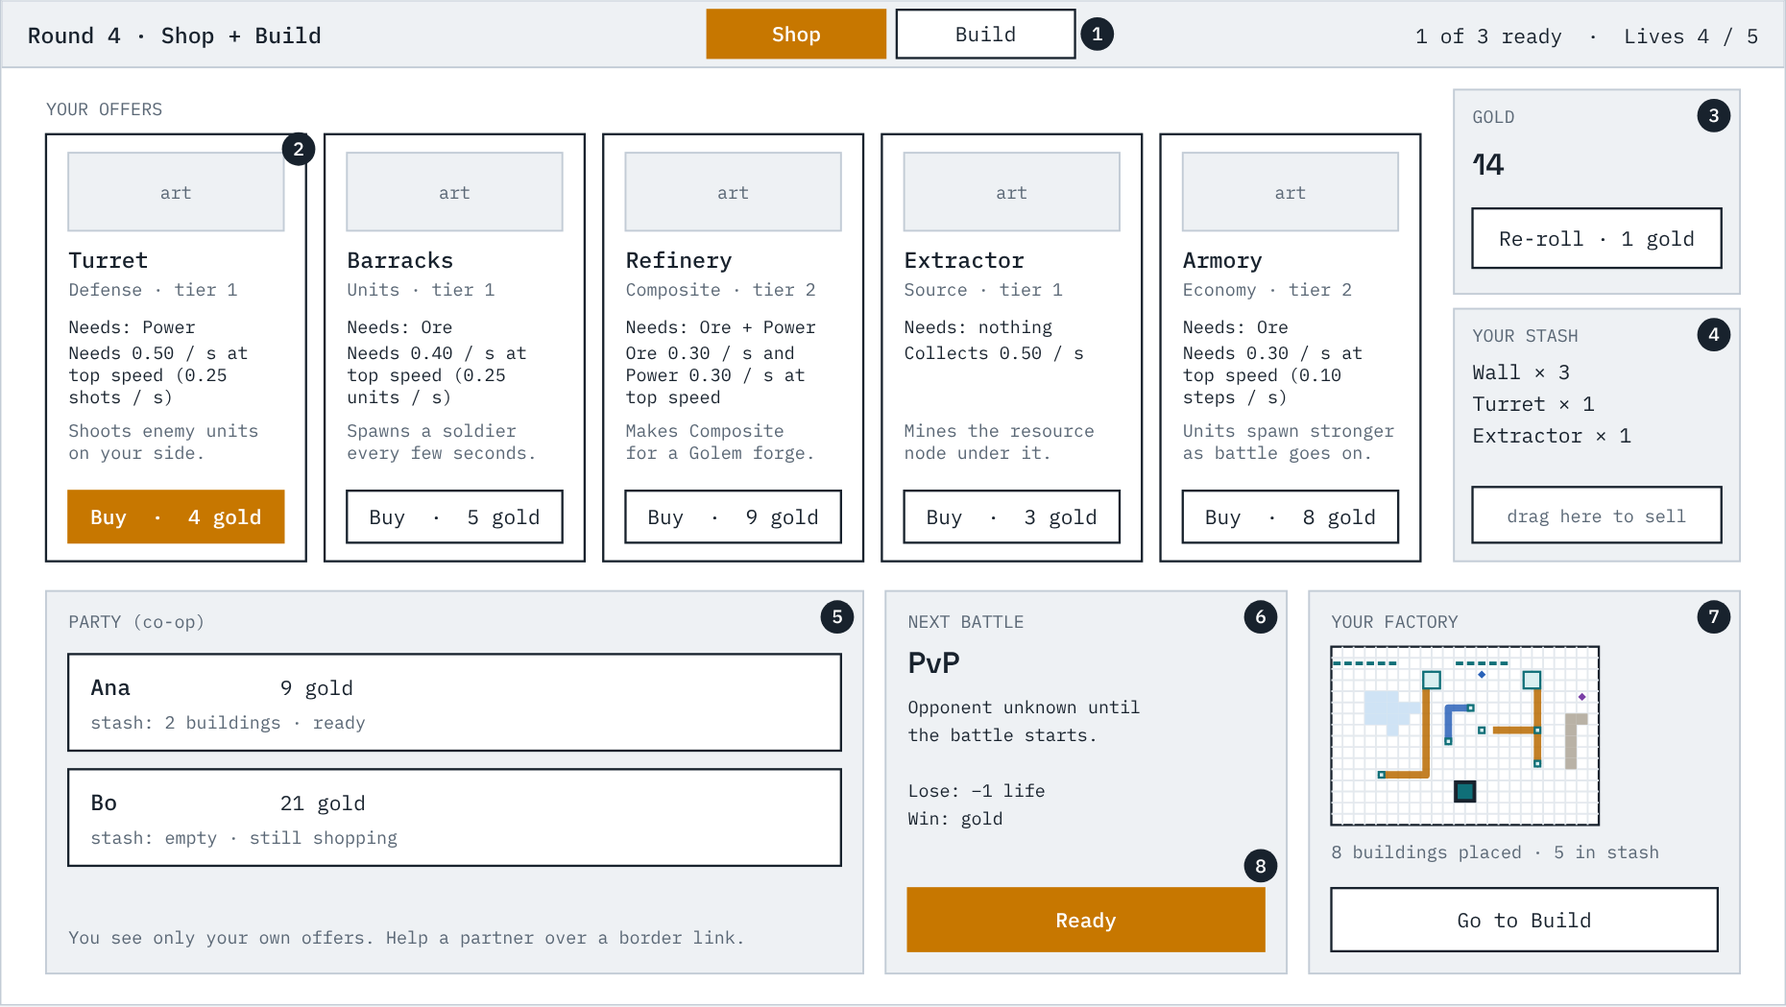
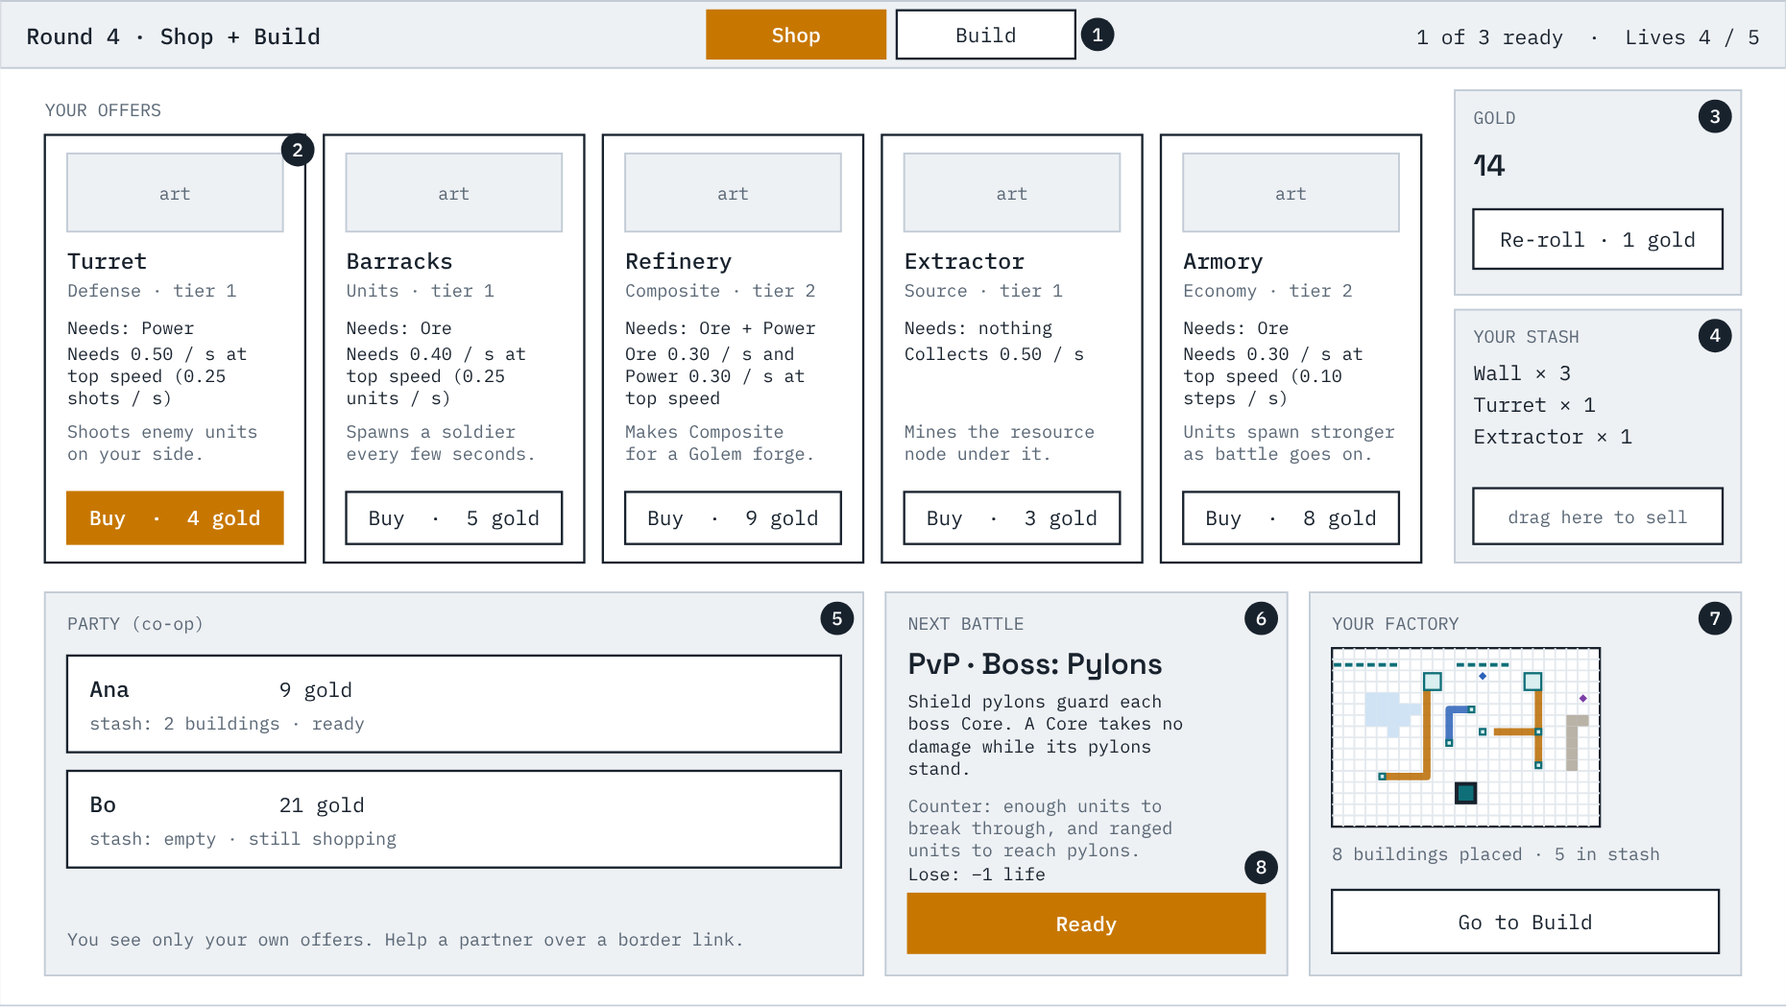
Record the boss design in the specs and wireframes (#395)
Docs only. MM-9 now picks from the bosses unlocked at the round, with
MM-9a to MM-9e (design rule, roster and unlocks, no back-to-back, the four
new bosses, budget). MM-10, MM-11, SC-5, CB-29, the glossary and the
wireframes (shop Next battle panel, new boss marks sketch 1b) follow.

Claude-Session: https://claude.ai/code/session_01Kd8cM8EQNkLKbUoW1zngf8

diff --git a/docs/wireframes/screens.html b/docs/wireframes/screens.html
@@ -112,7 +112,7 @@ svg text { font-family: var(--font-mono); fill: var(--ink); white-space: pre; }
     <p>Nobody gives orders here. The party watches its factory start cold, ramp up, and send units across the neutral zone while the enemy does the same. Each player has their own Core, so each side shows one health bar per Core under a total. The sketch is a three-player party; a solo battle shows one bar per side.</p>
     <div class="sheet"><svg id="s-battle" class="big" viewBox="0 0 1280 720" role="img" aria-label="Battle screen wireframe: the stronghold board at the top, a neutral zone in the middle, the party's board at the bottom with three Cores, one of them fallen, and status panels on both sides with a health bar for each Core."></svg></div>
     <ol class="notes">
-      <li>Who you are fighting and what kind of battle it is. A ghost shows the other party's names; a boss says so.</li>
+      <li>Who you are fighting and what kind of battle it is. A ghost shows the other party's names; a boss says so and names the boss. Boss-only marks are in sketch 1b.</li>
       <li>Your board, at the bottom, exactly as you built it. Conduits light up as resources flow.</li>
       <li>The neutral zone. Its lakes and cliffs are generated for this battle and revealed when it starts. Buildings do nothing here; only units fight.</li>
       <li>The enemy board, at the top, with one Core per player. Your units attack buildings in their way and finally the Cores: first the one opposite their owner’s plot, then the nearest still standing.</li>
@@ -126,6 +126,18 @@ svg text { font-family: var(--font-mono); fill: var(--ink); white-space: pre; }
       <li>Camera presets (Center, My base, Their base, Fit battle). It starts at the center of the map, and the view pans and zooms, so a larger map or a four-player battle still works on the same screen.</li>
       <li>A Golem leads the push. It is drawn bigger than other units: huge health and flat armor, but slow and weak in attack.</li>
       <li>A caster’s blast hits a group: units near the target take part of the hit. Units only, no buildings, no friendly fire.</li>
+    </ol>
+  </section>
+
+  <section>
+    <h2>1b. Battle: boss marks</h2>
+    <p>A boss battle looks like screen 1, with one extra mark for the boss in play. Each boss changes only its own side, never the party's factory. Four marks are sketched together here; a real battle shows only the one for its boss. All names are placeholders.</p>
+    <div class="sheet"><svg id="s-boss" viewBox="0 0 960 540" role="img" aria-label="Boss marks on the battle screen: Core health bars with threshold ticks, one shared health bar for linked Cores, a Core ringed by shield pylons, and a champion leading a wave."></svg></div>
+    <ol class="notes">
+      <li>Brood stronghold: each boss Core bar has ticks at 75%, 50% and 25%. When a Core falls below one, it releases a burst of units, and the log says so.</li>
+      <li>Linked Cores: one shared bar for all the boss Cores, with the Cores listed under it. Damage to any Core comes off the bar, and they all fall together.</li>
+      <li>Pylons: the shield pylons drawn around a boss Core, a shield ring on the Core while any stands, and a count (“Pylons 2/4”). Your units go for the pylons first.</li>
+      <li>Warlord: the champion leading each wave, drawn bigger than a Golem and marked as the champion, with its own health bar.</li>
     </ol>
   </section>
 
@@ -151,7 +163,7 @@ svg text { font-family: var(--font-mono); fill: var(--ink); white-space: pre; }
       <li>Gold buys buildings and re-rolls, nothing else.</li>
       <li>Your stash: buildings you own that are not on the board. Drag here to sell.</li>
       <li>Teammates' gold and stash, for information only. You do not see their offers. Hidden in solo.</li>
-      <li>What comes next. PvE options are shown ahead of time; a PvP opponent never is.</li>
+      <li>What comes next. PvE options are shown ahead of time. A ghost opponent never is. When the opponent is a boss, this panel names the boss, gives one line on its mechanic and one line of counter advice, so you can build against it (the sketch shows a boss; names are placeholders).</li>
       <li>A small live view of the board that jumps to the Build tab.</li>
       <li>Ready is available on both tabs.</li>
     </ol>
@@ -421,6 +433,49 @@ svg text { font-family: var(--font-mono); fill: var(--ink); white-space: pre; }
     mark(s, rx + pw - 18, 442, 10, 11); mark(s, rx + pw - 18, 252, 11, 11); mark(s, rx + pw - 18, 564, 12, 11);
   })();
 
+  // ================= 1b. BOSS MARKS =================
+  (function () {
+    var s = document.getElementById("s-boss");
+    topbar(s, "Round 5 · PvP battle", "vs. Boss: working name", "Battle time 1:24  ·  Lives 4 / 5");
+    function quad(x, y, title, n) { R(s, x, y, 456, 236, "panel"); T(s, x + 12, y + 24, title, "th"); mark(s, x + 436, y + 20, n); }
+    // 1. Brood: threshold ticks
+    quad(24, 52, "BROOD STRONGHOLD · boss Core bars", 1);
+    [["Core 1", 300, 500], ["Core 2", 190, 500], ["Core 3", 460, 500]].forEach(function (r, i) {
+      var y = 76 + i * 34, x = 36;
+      T(s, x, y + 22, r[0], "ts"); R(s, x + 60, y + 10, 300, 14, "hp"); R(s, x + 60, y + 10, Math.round(300 * r[1] / r[2]), 14, "hp-e");
+      [0.75, 0.5, 0.25].forEach(function (f) { el(s, "line", { x1: x + 60 + 300 * f, y1: y + 6, x2: x + 60 + 300 * f, y2: y + 28, class: "rule", "stroke-width": 2, style: "stroke:var(--ink)" }); });
+      T(s, x + 372, y + 22, r[1] + " / " + r[2], "ts", "start");
+    });
+    T(s, 36, 188, "ticks: 75% · 50% · 25%", "ts tm");
+    [[300, 214], [310, 220], [320, 212], [330, 219], [340, 213]].forEach(function (u) { el(s, "circle", { cx: u[0] + 20, cy: u[1], r: 3.5, class: "u-e" }); });
+    T(s, 36, 222, "Burst released below a tick:", "ts"); T(s, 36, 236, "Core 2 fell below 50% at 1:10", "ts tm");
+    // 2. Linked: one bar
+    quad(480, 52, "LINKED CORES · one shared bar", 2);
+    T(s, 492, 100, "Cores 3/3 · shared pool", "ts"); R(s, 492, 108, 330, 16, "hp"); R(s, 492, 108, 240, 16, "hp-e"); T(s, 832, 121, "1210 / 1500", "ts");
+    ["Core 1", "Core 2", "Core 3"].forEach(function (c, i) { R(s, 492 + i * 110, 142, 100, 28, "box"); T(s, 542 + i * 110, 160, c, "ts", "middle"); el(s, "line", { x1: 542 + i * 110, y1: 142, x2: 542 + i * 110, y2: 124, class: "rule" }); });
+    T(s, 492, 196, "A hit on any Core comes off the pool.", "ts"); T(s, 492, 210, "All Cores fall together at 0. Not drawn in solo.", "ts tm");
+    // 3. Pylons
+    quad(24, 296, "PYLONS · shielded Core", 3);
+    var cx = 150, cy = 420;
+    el(s, "circle", { cx: cx, cy: cy, r: 58, class: "blast" });
+    R(s, cx - 16, cy - 16, 32, 32, "core e"); T(s, cx, cy + 3, "C1", "core-t", "middle");
+    [[-48, -36, 0], [48, -36, 0], [-48, 36, 1], [48, 36, 0]].forEach(function (q) {
+      var px = cx + q[0], py = cy + q[1];
+      el(s, "polygon", { points: [px, py - 9, px + 8, py, px, py + 9, px - 8, py].join(","), class: q[2] ? "fell-x e" : "bld e", style: q[2] ? "fill:none" : "" });
+      if (q[2]) { el(s, "line", { x1: px - 6, y1: py - 6, x2: px + 6, y2: py + 6, class: "fell-x e" }); el(s, "line", { x1: px + 6, y1: py - 6, x2: px - 6, y2: py + 6, class: "fell-x e" }); }
+    });
+    [[cx - 100, cy + 76], [cx - 90, cy + 56]].forEach(function (u) { el(s, "circle", { cx: u[0], cy: u[1], r: 4, class: "u-a" }); });
+    el(s, "line", { x1: cx - 86, y1: cy + 54, x2: cx - 52, y2: cy + 38, class: "shot" });
+    lines(s, 250, 392, ["Pylons 3/4", "", "Core takes no damage", "while any pylon stands.", "", "Your units attack the", "pylons first."], "ts", 14);
+    // 4. Warlord
+    quad(480, 296, "WARLORD · champion per wave", 4);
+    el(s, "circle", { cx: 560, cy: 410, r: 22, class: "golem", style: "fill:var(--enemy)" });
+    T(s, 560, 414, "★", "t", "middle"); T(s, 560, 446, "Champion", "ts", "middle");
+    R(s, 534, 456, 52, 8, "hp"); R(s, 534, 456, 44, 8, "hp-e");
+    [[620, 396], [630, 412], [622, 426], [650, 402], [655, 420], [680, 410]].forEach(function (u) { el(s, "circle", { cx: u[0], cy: u[1], r: 4, class: "u-e" }); });
+    lines(s, 720, 392, ["One champion per", "boss plot leads", "each wave.", "", "A Golem with many", "times Golem health,", "paid from the wave", "budget."], "ts", 14);
+  })();
+
   // ================= 2. EVENT =================
   (function () {
     var s = document.getElementById("s-event");
@@ -488,8 +543,11 @@ svg text { font-family: var(--font-mono); fill: var(--ink); white-space: pre; }
     T(s, 36, 508, "You see only your own offers. Help a partner over a border link.", "ts tm");
     // next battle
     R(s, 476, 318, 216, 206, "panel"); T(s, 488, 338, "NEXT BATTLE", "ts tm");
-    T(s, 488, 362, "PvP", "tb"); lines(s, 488, 384, ["Opponent unknown until", "the battle starts.", "", "Lose: −1 life", "Win: gold"], "ts", 15);
-    btn(s, 488, 478, 192, 34, "Ready", true);
+    T(s, 488, 362, "PvP · Boss: Pylons", "tb");
+    lines(s, 488, 380, ["Shield pylons guard each", "boss Core. A Core takes no", "damage while its pylons", "stand."], "ts", 12);
+    T(s, 488, 436, "Counter: enough units to", "ts tm"); T(s, 488, 448, "break through, and ranged", "ts tm"); T(s, 488, 460, "units to reach pylons.", "ts tm");
+    T(s, 488, 473, "Lose: −1 life", "ts");
+    btn(s, 488, 480, 192, 32, "Ready", true);
     // mini board
     R(s, 704, 318, 232, 206, "panel"); T(s, 716, 338, "YOUR FACTORY", "ts tm");
     var mg = el(s, "g", { transform: "translate(716,348) rotate(0)" });

diff --git a/docs/specs/04-encounters-matchmaking.md b/docs/specs/04-encounters-matchmaking.md
@@ -97,22 +97,72 @@ rows. See `docs/rules-reference.md`, "Bundled ghosts".
   `(game version, party size, round number, seed)`:
   1. Compute a **power budget** from the round number using the PvE scaling
      curve (`05-scaling-economy.md` SC-1).
-  2. Pick a **boss template** valid for that depth band: a threat profile
-     (CB-29): a wave schedule and a stronghold with a signature mechanic.
+  2. Pick a **boss template** from the bosses **unlocked** at that round
+     (MM-9b): a threat profile (CB-29): a wave schedule and a stronghold
+     with a signature mechanic. Unlocks are cumulative: a boss stays in the
+     draw once it is unlocked.
   3. Spend the budget on wave size and composition over time and on the
      stronghold's health and defenses, multiplied by party size (CP-7). The
      stronghold has one Core per player, and its total Core health is split
      evenly between them (CB-29).
   4. Emit a threat profile (CB-34). Bosses are scripted threats, not
      factories.
-- **MM-10 [PROPOSED]** A boss should be tuned to be roughly as dangerous as
+- **MM-9a [DECIDED]** **A boss mechanic changes only the boss's own side**:
+  its stronghold and its units. It never changes how the party's factory
+  works: no effect on party buildings, production, flow, ramp or turrets.
+  Reason: the party gives no orders during a battle (pillar 4), so a
+  mechanic that breaks their factory mid-fight cannot be answered. Rejected
+  for this reason: jammers that stop party buildings, siege units that
+  target the factory, and waves that switch lanes. Party units may change
+  what they walk to because of a building on the boss's side (MM-9d,
+  Pylons); that is not a change to the factory.
+- **MM-9b [DECIDED]** **Roster and unlocks.** Each boss has a first round
+  and a minimum party size. The boss is a uniform draw (from the seed)
+  among the bosses that are unlocked at the round and fit the party size.
+  Linked Cores needs 2 or more players, so it is skipped in solo and the
+  draw picks another unlocked boss. A boss with only a data signature (a
+  different wave mix and nothing new in the arena) was rejected as too close
+  to ordinary PvE.
+- **MM-9c [DECIDED]** **No back-to-back repeats.** The boss met in the run's
+  previous boss battle is left out of the draw when another boss is
+  eligible. If it is the only eligible one, it is drawn again.
+- **MM-9d [PROPOSED]** **The bosses.** Each has one new arena rule, boss side
+  only (MM-9a). Names are working names; theme issue #393 renames them. All
+  numbers here are [PROPOSED].
+
+  | Boss | ID | From round | Party size | Mechanic (boss side only) | Counter |
+  |------|----|-----------|------------|---------------------------|---------|
+  | Today's boss | `arch_boss` | 1 | any | Every third wave is all raiders (unchanged). The early, cold-start boss (MM-12). | Defence against swarms |
+  | Brood stronghold | `arch_boss_brood` | 3 | any | Each boss Core releases a burst of units when it falls below 75%, 50% and 25% of its starting health. A hit that crosses several thresholds releases each of them; destroying a Core releases any left. | Keep defence at home; do not go all-in on attack |
+  | Linked Cores | `arch_boss_linked` | 5 | 2–4 | The boss Cores share one health pool: damage to any of them comes off the pool, and they all fall together when it is empty. | Co-op: a strong lane carries a weak one; total pressure matters |
+  | Pylons | `arch_boss_pylons` | 7 | any | Each boss plot has a few shield pylons around its Core. That Core takes no damage while any of its pylons stands. Party units treat a shielded Core's pylons as their targets until they are down. | Enough units to break through; ranged units to reach pylons |
+  | Warlord | `arch_boss_warlord` | 9 | any | Every wave is led by one champion per boss plot: a Golem with many times a Golem's health, paid for out of the wave budget. | Focused damage and walls that delay it; Golem armor shrugs off splash |
+
+  - Boss waves may use refining's units (Golem, caster, heavy). Only the
+    Warlord depends on them.
+  - Pylons: the party's units change what they walk to only because of a
+    building on the boss's side. The party's factory works as always, so
+    this fits MM-9a. Pylons are boss-only buildings (CB-29), never in a shop.
+  - Out of scope: boss-only units the party can never get; boss rewards
+    different from a ghost's; an endgame guard that forces bosses (SC-7);
+    PvE threats that use these mechanics.
+- **MM-9e [DECIDED]** **Every mechanic is paid from the boss's existing
+  budget** (SC-1, boss multiplier). A mechanic does not raise the curve:
+  the pylons, the burst units or the champion come out of the same total
+  the boss would have had. Stakes are unchanged: losing to any boss costs 1
+  life (RS-5a).
+- **MM-10 [PROPOSED]** **Each boss** (every entry in MM-9d, not just "the
+  boss") should be tuned to be roughly as dangerous as
   the *median* ghost at that round while ghosts exist at that depth, and to
   follow the exponential curve beyond it. In practice the snapshot pool thins
   out at high rounds, so deep runs naturally transition from ghosts to
   ever-harder bosses — this is the mechanism that ends every run (V-5).
 - **MM-11 [PROPOSED]** Players are told whether a PvP battle is a ghost or a
   boss, before or at fight start. Bosses are presented as bosses, never
-  disguised as players.
+  disguised as players. When the opponent is a boss, the shop before the PvP
+  battle names the boss and explains its mechanic and a counter, so the party
+  can build against it. A ghost is still described only as a "rival party"
+  (MM-7 is unchanged for ghosts).
 
 ## Pool health
 

diff --git a/docs/wireframes/README.md b/docs/wireframes/README.md
@@ -27,7 +27,7 @@ battle (1, 8) → 2 event → 3 shop + 4 build → … → 9 run over.
 - `screens.html` — all the wireframes on one page, with the callouts. Open
   it in a browser. The screens are drawn by a script in the page, so edit
   that script to change them, then re-export the images.
-- `1-battle.png` to `9-run-over.png` — the same screens as images.
+- `1-battle.png` to `9-run-over.png` — the same screens as images, plus `1b-battle-boss.png` (the boss marks, after the Battle screen).
 
 Not drawn: the lobby for forming a party, settings, and the screens for the
 deferred feature of points of interest. Refining (issue #378) is drawn on the
@@ -46,7 +46,7 @@ Nobody gives orders here. The party watches its factory start cold, ramp up, and
 
 ![Battle screen wireframe](1-battle.png)
 
-1. Who you are fighting and what kind of battle it is. A ghost shows the other party's names; a boss says so.
+1. Who you are fighting and what kind of battle it is. A ghost shows the other party's names; a boss says so and names the boss. The marks a boss adds are in 1b below.
 2. Your board, at the bottom, exactly as you built it. Conduits light up as resources flow.
 3. The neutral zone. Its lakes and cliffs are generated for this battle and revealed when it starts. Nothing can be built here. Turrets can shoot enemy units in it; otherwise only units fight here.
 4. The enemy board, at the top, with one Core per player. Your units attack buildings in their way and finally the enemy Cores: first the one opposite their owner's plot, then the nearest still standing.
@@ -60,6 +60,17 @@ Nobody gives orders here. The party watches its factory start cold, ramp up, and
 12. Camera presets: Center, My base, Their base and Fit battle. It starts at the center of the map, and the view pans and zooms, so a larger map or a four-player battle still works on the same screen.
 13. A Golem leads the push. It is drawn bigger than other units: huge health and flat armor, but slow and weak in attack.
 14. A caster's blast hits a group: units near the target take part of the hit (area damage). Units only, no buildings, no friendly fire.
+
+## 1b. Battle: boss marks
+
+A boss battle looks like screen 1 plus one extra mark for the boss in play (MM-9d). Each boss changes only its own side, never the party's factory (MM-9a). The image shows all four marks together; a real battle shows only one. Names are placeholders.
+
+![Boss marks wireframe](1b-battle-boss.png)
+
+1. Brood stronghold: ticks at 75%, 50% and 25% on each boss Core bar. Below a tick the Core releases a burst of units, and the log says so.
+2. Linked Cores: one shared bar for all boss Cores, with the Cores listed under it. Damage to any Core comes off the bar, and they all fall together. Not used in solo.
+3. Pylons: shield pylons around a boss Core, a shield ring while any stands, and a count ("Pylons 3/4"). Your units go for the pylons first.
+4. Warlord: the champion leading each wave, drawn bigger than a Golem, with its own health bar.
 
 ## 2. Event choice
 
@@ -83,7 +94,7 @@ The shop always follows the event. Each player has their own offers and their ow
 3. Gold buys buildings and re-rolls, nothing else.
 4. Your stash: buildings you own that are not on the board. Drag here to sell.
 5. Teammates' gold and stash. You do not see their offers, and gold and buildings cannot be given (CP-29). Hidden in solo.
-6. What comes next. PvE options are shown ahead of time; a PvP opponent never is.
+6. What comes next. PvE options are shown ahead of time. A ghost opponent never is. When the opponent is a boss, the panel names the boss, gives one line on its mechanic and one line of counter advice, so you can build against it (MM-11). The image shows a boss; names are placeholders.
 7. A small live view of the board that jumps to the Build tab.
 8. Ready is available on both tabs.
 

diff --git a/docs/specs/05-scaling-economy.md b/docs/specs/05-scaling-economy.md
@@ -46,7 +46,10 @@ the specification.
     (e.g. round ~18–20).
 - **SC-5 [PROPOSED]** Bosses that replace a ghost early in a run (pool
   cold-start) must not be harsher than a typical ghost at that depth (MM-10),
-  so early boss fallbacks do not punish players for an empty pool.
+  so early boss fallbacks do not punish players for an empty pool. This
+  holds for **each** boss unlocked at that round (MM-9d), not only for one
+  of them. A boss mechanic is paid from the boss's budget (MM-9e) and so
+  does not make the boss harsher than the curve.
 - **SC-6 [PROPOSED]** A headless **balance harness** runs many simulated
   fights of reference teams against generated PvE at each round and difficulty to chart win
   rate by depth. This is the tool that sets `B0` and `g`, and it should exist

diff --git a/docs/specs/03-combat.md b/docs/specs/03-combat.md
@@ -650,6 +650,12 @@ Everything below is [PROPOSED] detail unless marked otherwise.
     are; Overload, ties and the time limit work as in any battle.
   - The stronghold's defenses are laid out plot by plot, around each plot's
     Core.
+  - **Boss strongholds may differ in two ways** [DECIDED] (MM-9a–MM-9d):
+    a boss stronghold may contain **boss-only buildings** (pylons) that are
+    never in a shop, and its Cores may share one health pool (Linked Cores)
+    instead of splitting it. Party units target the pylons of a shielded
+    Core until they are down (Pylons); this is the only targeting change.
+    Nothing a boss does changes the party's factory.
 
   Archetypes test the three strategies:
   - **Rusher** — heavy early waves; tests defense.

diff --git a/docs/specs/00-vision.md b/docs/specs/00-vision.md
@@ -156,5 +156,5 @@ does not block systems work.
 | Threat | A PvE opponent: scripted waves of units plus a stronghold to attack, not a factory. |
 | Snapshot | A saved copy of a party's board (every plot), taken at the start of a PvP battle. |
 | Ghost | A snapshot being used as another party's opponent. |
-| Boss | A generated PvE opponent used when no ghost is available. |
+| Boss | A generated PvE opponent used when no ghost is available. There are several, each with a signature mechanic on its own side; later rounds unlock more (MM-9a–MM-9e). |
 | Depth | The highest round a party reached; the primary score. |

diff --git a/docs/specs/07-open-questions.md b/docs/specs/07-open-questions.md
@@ -125,7 +125,8 @@ life and gives no reward; a PvP loss costs a life. Remaining details:
   same type (RS-4b). The
   starting event types are those in RS-4a, to be refined later.
 - **Boss fallback stakes.** Proposed: same as a PvP battle, costs a life on
-  defeat (RS-5a).
+  defeat (RS-5a). Decided (issue #394): this holds for every boss; the boss
+  roster and its rules are MM-9a–MM-9e.
 - **Regaining lives.** Proposed: not possible initially (RS-7c).
 - **Ghost-only endgame guard.** See SC-7.
 

diff --git a/docs/specs/06-technical-architecture.md b/docs/specs/06-technical-architecture.md
@@ -597,7 +597,7 @@ Still unconfirmed:
   fallback; scripted bot; bundled bot ghosts.
 - **W3b — Refining (issue #378) and points of interest** (TA-41a).
 - **W4 — Tune:** balance harness, content iteration, more event types,
-  playtests. Ends at the exit criteria (TA-53).
+  the boss roster (MM-9a–MM-9e), playtests. Ends at the exit criteria (TA-53).
 
 **Phase 2 — Godot port**
 
